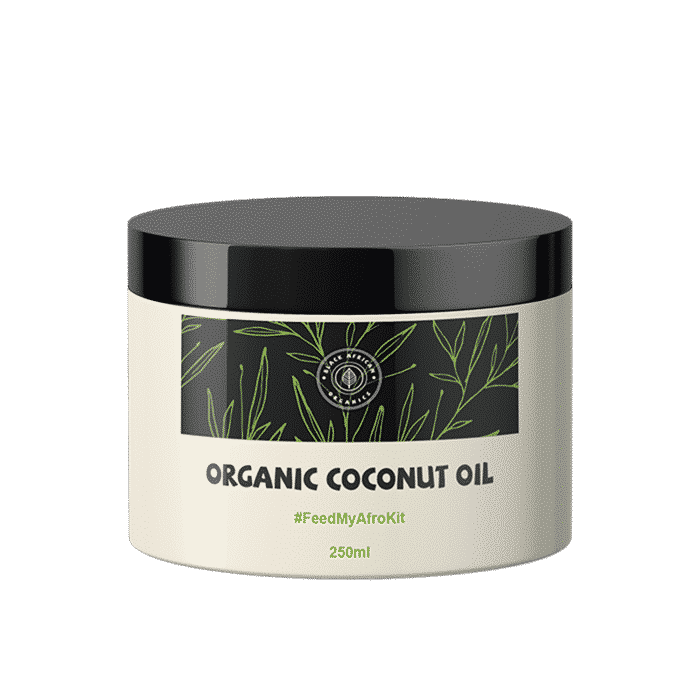
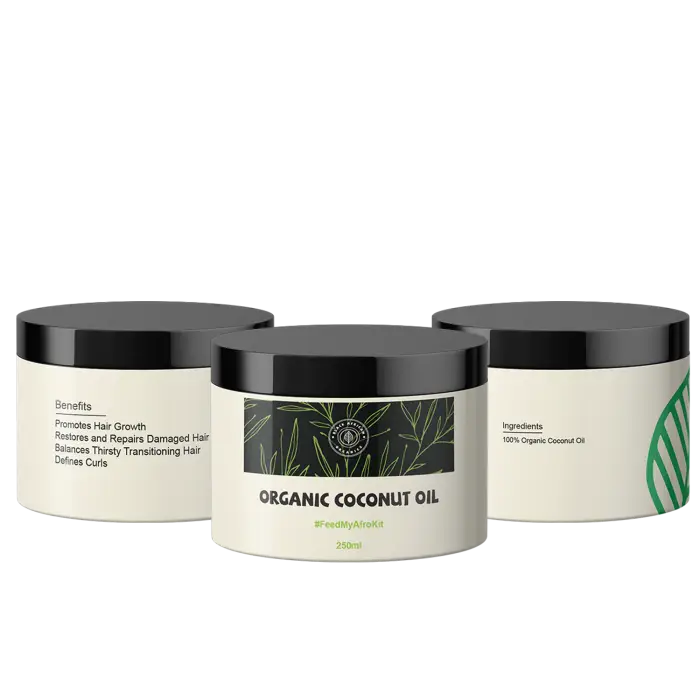
added third product

diff --git a/index.html b/index.html
@@ -35,7 +35,8 @@
         </div>
     </header>
     <main class="container">
-        <h1 class="section-heading"><span class="grey-text">products/</span> all in one</h1>
+        <h1 class="section-heading"><span class="grey-text">products/</span> Hair Care</h1>
+
         <!--Product section is divided left to right. The left side contains details of the product and the right contains the product image-->
         <section class="product-container">
             <div class="description-container">
@@ -113,6 +114,44 @@
             </div>
             <!--Product image on the right side of the product section-->
             <img class="product-image" src="./img/3combo.png" alt="African Organics Hair Kit">
+        </section>
+        
+        <section class="product-container">
+            <div class="description-container">
+                <h4 class="price">R110.00</h4>
+                <h3 class="product-heading">Organic Hair Growth and Care Kit</h3>
+                <p class="product-description">
+                    Maybe you’ve heard about the miracles of coconut oil hair care, and we’re here to tell you that they are true and real.
+                    Just take a look at this spray and you’ll be able to see that for yourself.  This natural hair strengthener is the 
+                    perfect non-greasy hair product to give you a stronger, pleasant-smelling spray that will give you those smooth, 
+                    healthy strands you’ve always dreamed of.  Perfect for giving you a little boost in strength and gloss, this hair 
+                    care spray is the ideal choice for lovers of coconut oil and skeptics alike.
+                </p>
+                <ul class="product-benefit">
+                    <li>Great for a non-greasy hair product</li>
+                    <li>Easy to use and effective results</li>
+                </ul>
+                <!--Product selection is put in divs to divide the left quantity side from the right "add to cart" button-->
+                <div class="product-selection">
+                    <div class="quantity-selection">
+                        <p>Select a quantity</p>
+                        <select name="product-quantity" id="product-quantity">
+                            <option value="1">1</option>
+                            <option value="2">2</option>
+                            <option value="3">3</option>
+                            <option value="4">4</option>
+                            <option value="5">5</option>
+                        </select>
+                        <p>See <a href="#">Shipping information</a></p>
+                    </div>
+                    <div class="cart-circle">
+                        <button class="add-to-cart">Add to cart</button>
+                        <a type="button" href="#" ></a>
+                    </div>
+                </div>
+            </div>
+            <!--Product image on the right side of the product section-->
+            <img class="product-image" src="./img/coconut-oil.png" alt="African Organics Coconut Oil Hair Kit">
         </section>
     </main>
 

diff --git a/css/style.css b/css/style.css
@@ -111,6 +111,7 @@ header{
     grid-template-columns: 1fr 1fr;
     align-items: center;
     border-bottom: 1px solid #7A0030;
+    padding: 20px 0;
 }
 
 .price{
